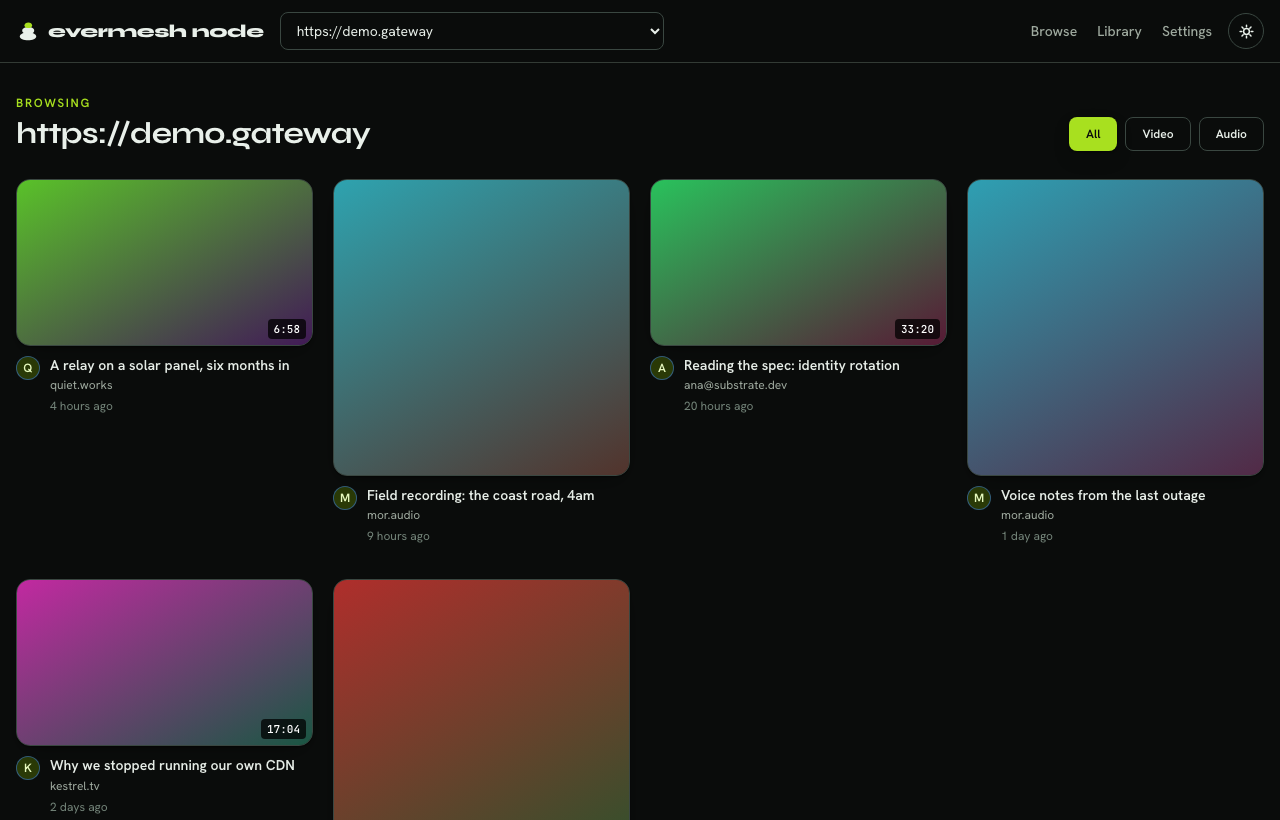
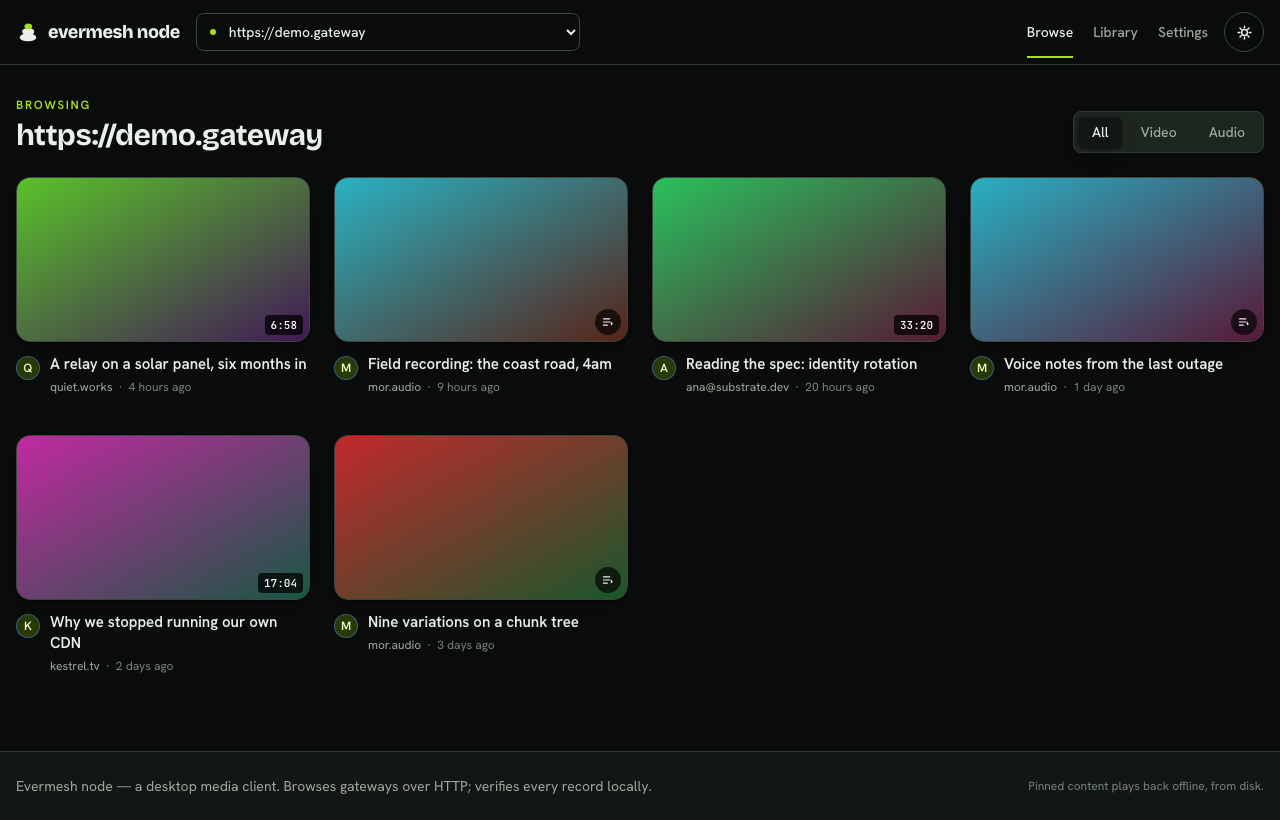
apps: fix mixed video/audio grid rows, add separators to the status strip; regen screenshots
Found by reading the just-regenerated screenshots back (as instructed) and
judging them: audio cards used aspect-square while video cards used
aspect-video. This app's catalogue grid deliberately mixes both kinds
(spec 004 §2), and CSS Grid sizes a row to its tallest cell — so every row
containing one audio card stretched to fit the taller square cover, and
the shorter video cards in that row sat at the top of the row with a slab
of dead space underneath them. Visible in both apps' regenerated
screenshots as large, ugly gaps under three of every four cards. Fixed by
giving every card the same 16:9 frame regardless of media kind (a square
cover still reads fine center-cropped via the existing object-cover); this
was pre-existing, not something the previous commit's gap/typography
changes introduced, but it's squarely "cramped/weak grid cards" territory
so it's fixed here rather than shipped.

Also added middot separators between the gateway app's status-strip
capability items (Video · Music & playlists · Client-side verification ·
Desktop client) — without them the list read as one run-on line once the
old per-item chip backgrounds were removed.

Regenerated all four: site/screenshots/ui-{dark,light}.png,
ui-node-{dark,light}.png (just ui-shots / just node-shots). Read back and
reviewed with the Read tool; the grid now forms clean, even rows in both
themes and both apps.

pnpm --filter @evermesh/gateway-web build and
pnpm --filter @evermesh/node-web build: both clean.
[…]

diff --git a/apps/gateway/web/src/components/MediaCard.tsx b/apps/gateway/web/src/components/MediaCard.tsx
@@ -99,12 +99,14 @@ export function MediaCard({ video }: MediaCardProps): JSX.Element {
       to={isAudio ? `/album/${encodeURIComponent(video.id)}` : `/watch/${encodeURIComponent(video.id)}`}
       className="group block rounded-card focus-visible:outline focus-visible:outline-[3px] focus-visible:outline-offset-2 focus-visible:outline-accent-600 dark:focus-visible:outline-brand-300"
     >
-      <div
-        className={
-          "relative w-full overflow-hidden rounded-card border border-line-strong bg-surface-2 shadow-card transition-all duration-200 group-hover:border-signal/60 group-hover:shadow-elevated " +
-          (isAudio ? "aspect-square" : "aspect-video")
-        }
-      >
+      {/* Every card in this grid is 16:9, video and audio alike — this
+          catalogue mixes both kinds in one grid (spec 004 §2), and giving
+          audio a taller aspect-square cover used to make CSS Grid stretch
+          the whole row to match it (a grid row's height is its tallest
+          cell), leaving a slab of dead space under every shorter video
+          card sharing that row. A square cover-art image still reads
+          fine center-cropped into a wide frame via object-cover below. */}
+      <div className="relative aspect-video w-full overflow-hidden rounded-card border border-line-strong bg-surface-2 shadow-card transition-all duration-200 group-hover:border-signal/60 group-hover:shadow-elevated">
         {coverUrl ? (
           <img
             src={coverUrl}

diff --git a/apps/node-web/src/components/MediaCard.tsx b/apps/node-web/src/components/MediaCard.tsx
@@ -87,12 +87,10 @@ export function MediaCard({ video, gatewayUrl }: MediaCardProps): JSX.Element {
       to={(isAudio ? `/listen/${encodeURIComponent(video.id)}` : `/watch/${encodeURIComponent(video.id)}`) + gatewayParam}
       className="group block rounded-card focus-visible:outline focus-visible:outline-[3px] focus-visible:outline-offset-2 focus-visible:outline-accent-600 dark:focus-visible:outline-brand-300"
     >
-      <div
-        className={
-          "relative w-full overflow-hidden rounded-card border border-line-strong bg-surface-2 shadow-card transition-all duration-200 group-hover:border-signal/60 group-hover:shadow-elevated " +
-          (isAudio ? "aspect-square" : "aspect-video")
-        }
-      >
+      {/* Every card is 16:9, video and audio alike — see the web MediaCard
+          this is ported from for why a per-kind aspect ratio broke the
+          grid's row heights. */}
+      <div className="relative aspect-video w-full overflow-hidden rounded-card border border-line-strong bg-surface-2 shadow-card transition-all duration-200 group-hover:border-signal/60 group-hover:shadow-elevated">
         {coverUrl ? (
           <img
             src={coverUrl}

diff --git a/apps/gateway/web/src/routes/Home.tsx b/apps/gateway/web/src/routes/Home.tsx
@@ -36,7 +36,10 @@ function StatusStrip(): JSX.Element {
       aria-label="About this gateway"
       className="mb-6 flex flex-col gap-3 rounded-control border border-line bg-surface px-4 py-3 text-xs sm:flex-row sm:items-center sm:justify-between sm:gap-6 sm:px-5"
     >
-      <ul className="flex flex-wrap items-center gap-x-4 gap-y-1.5 text-muted" aria-label="What this gateway serves">
+      <ul
+        className="flex flex-wrap items-center gap-x-3 gap-y-1.5 text-muted [&>li+li]:before:mr-3 [&>li+li]:before:text-faint [&>li+li]:before:content-['·']"
+        aria-label="What this gateway serves"
+      >
         <li className="inline-flex items-center gap-1.5 font-medium text-ink">
           <PlayIcon size={13} /> Video
         </li>
